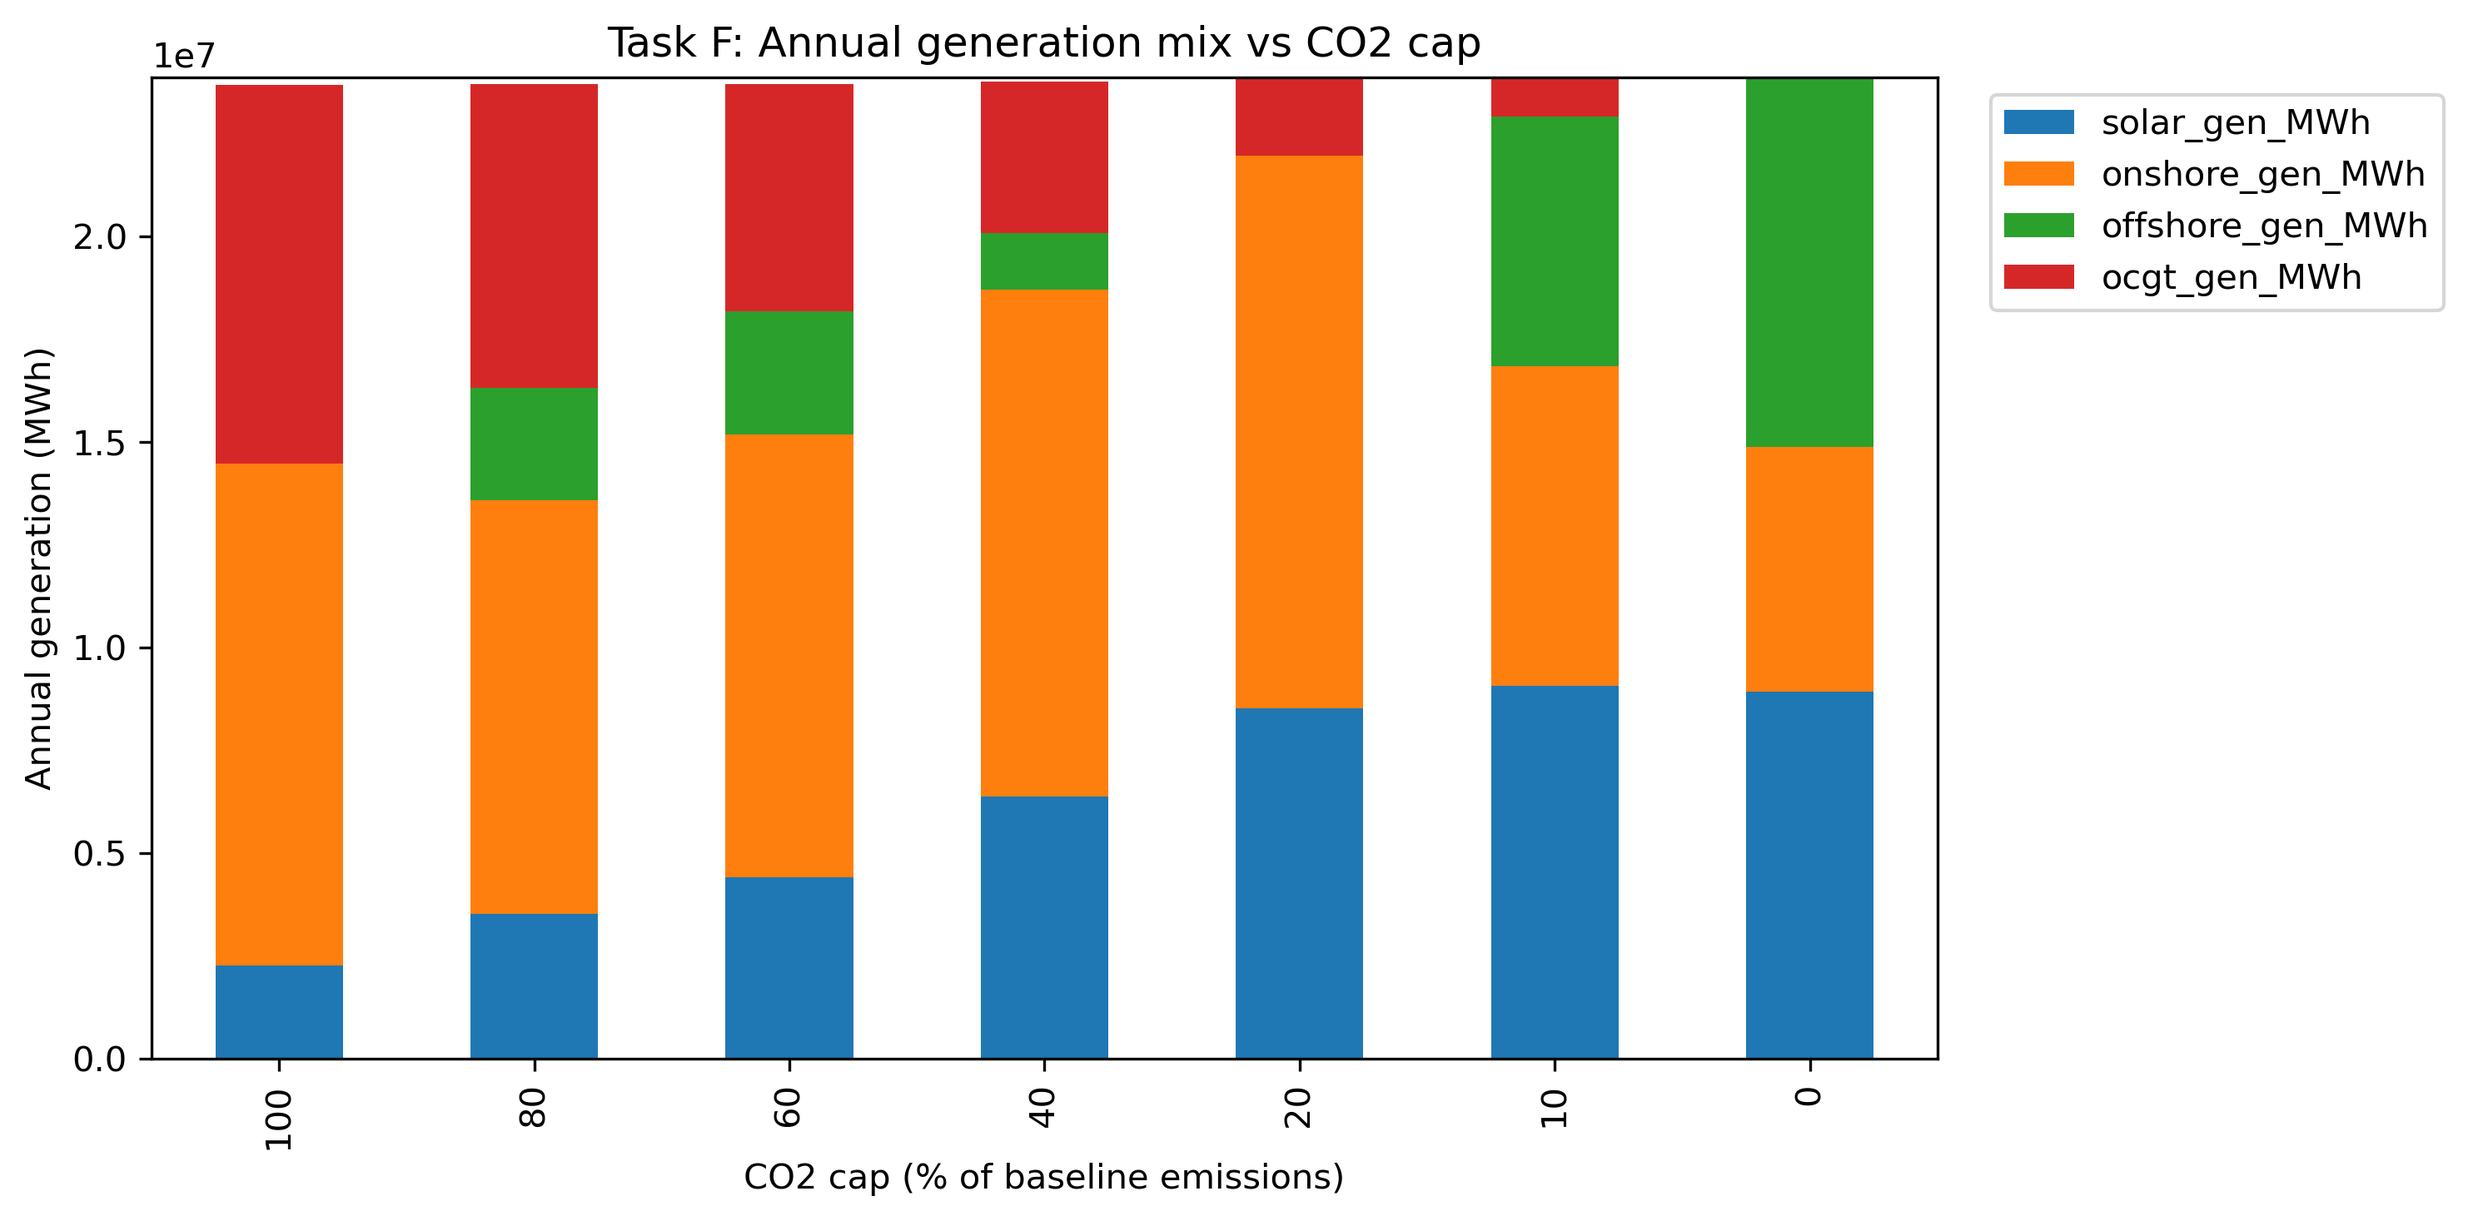
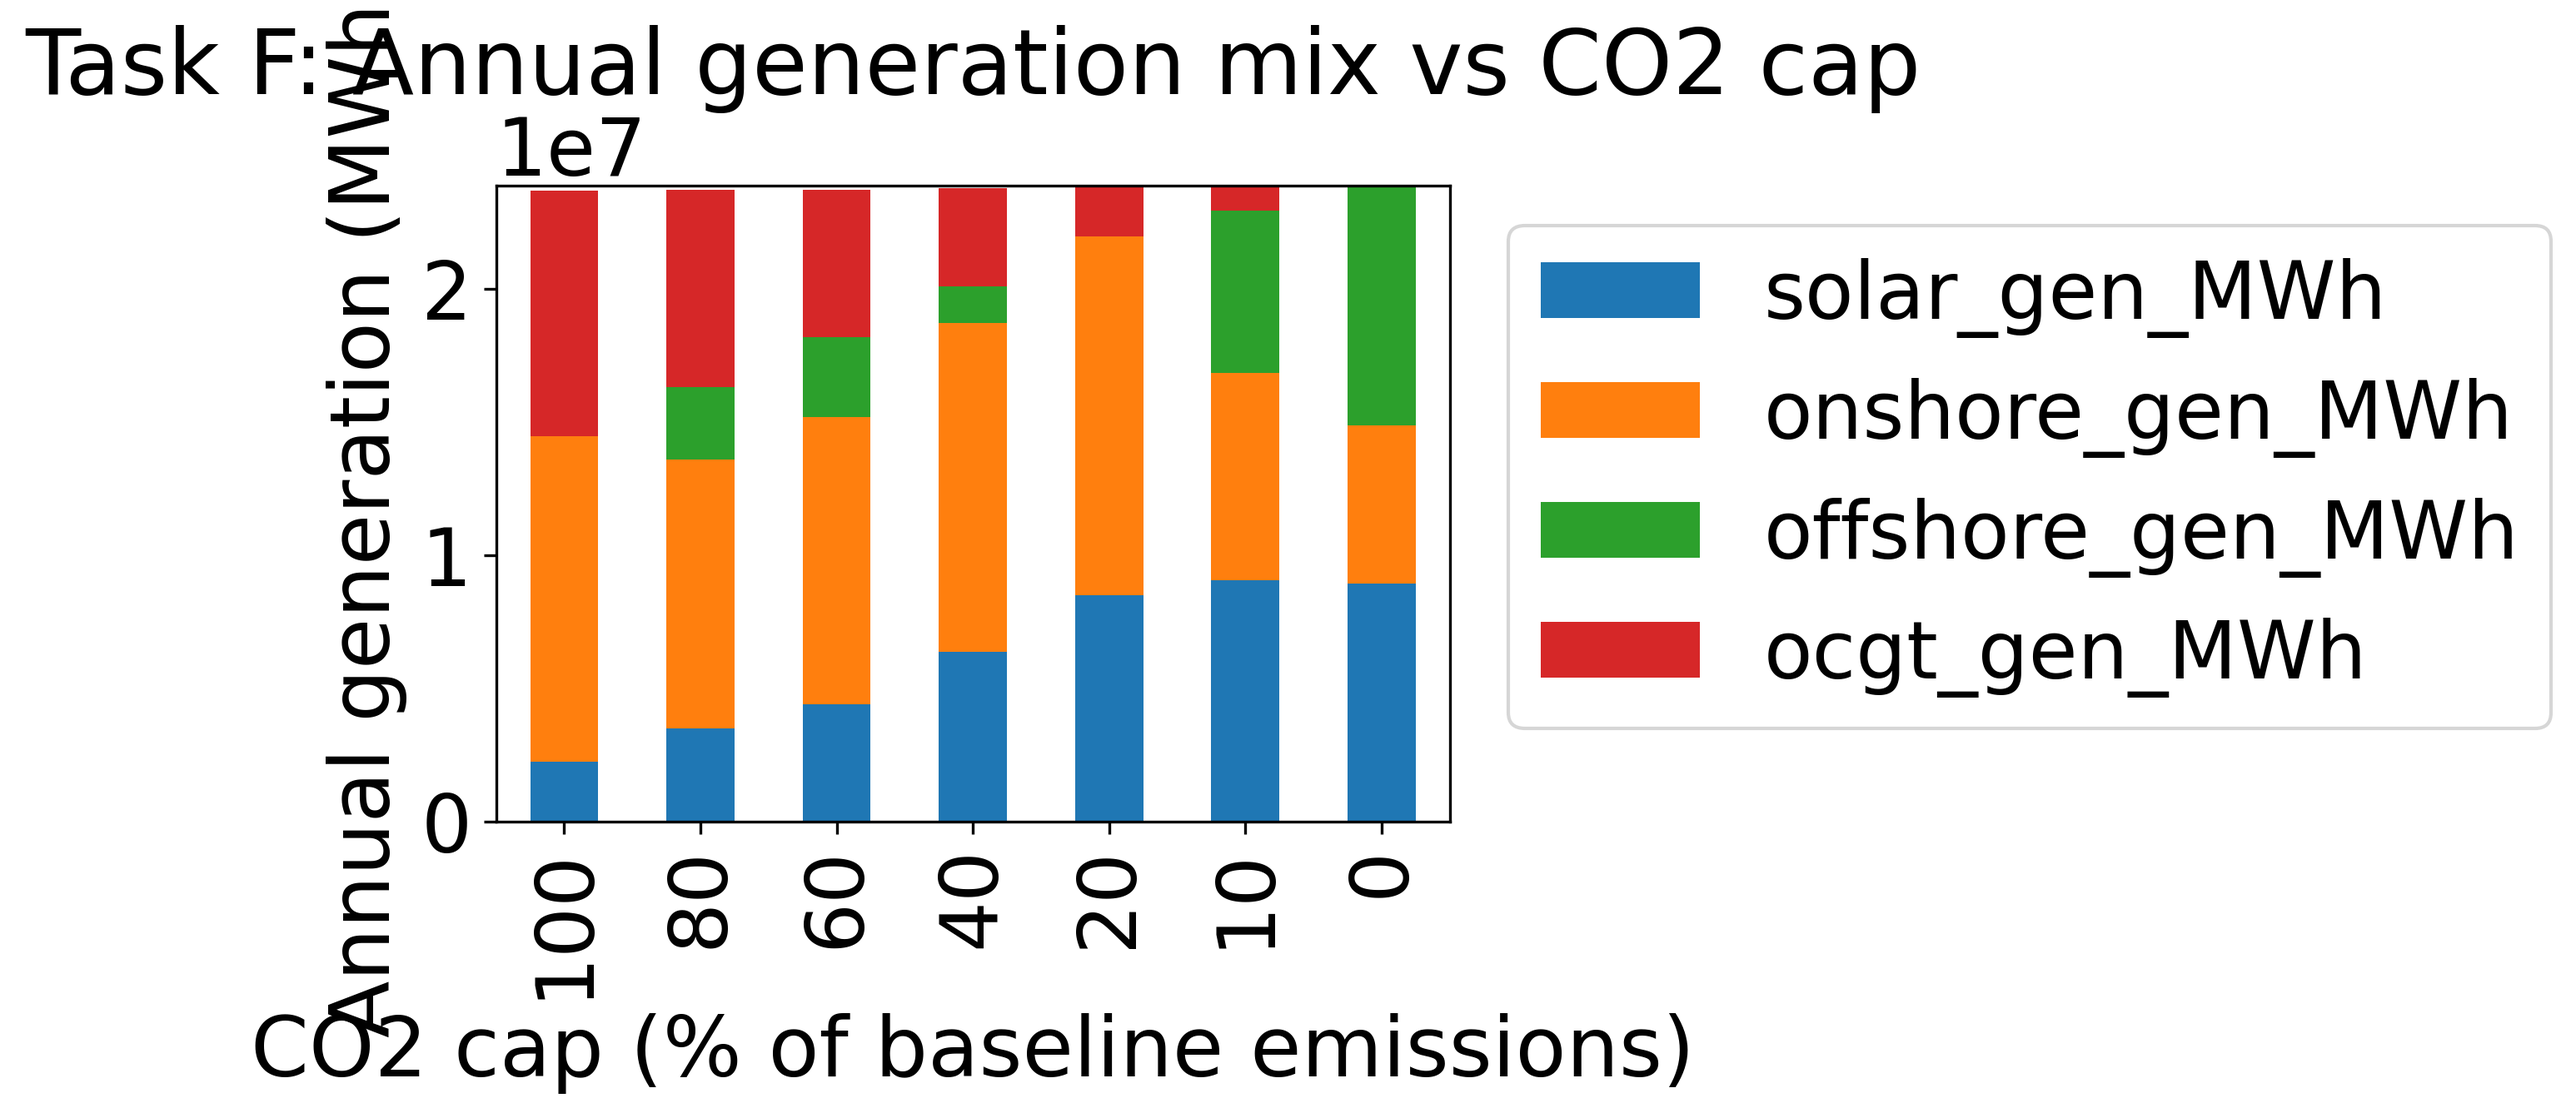
finalizing project

diff --git a/taskF.py b/taskF.py
@@ -9,6 +9,23 @@ from src.cost_loader import load_costs, get_cost
 from src.profiles import make_profile
 from src.network_builder import create_network
 
+
+# ============================================================
+# Plot style (global)
+# ============================================================
+
+PLOT_FONT_SIZE = 24  # <-- change ONLY this number
+
+plt.rcParams.update({
+    "font.size": PLOT_FONT_SIZE,           # base font size
+    "axes.titlesize": PLOT_FONT_SIZE + 2,  # title
+    "axes.labelsize": PLOT_FONT_SIZE,      # x/y labels
+    "xtick.labelsize": PLOT_FONT_SIZE - 1,
+    "ytick.labelsize": PLOT_FONT_SIZE - 1,
+    "legend.fontsize": PLOT_FONT_SIZE - 1,
+    "figure.titlesize": PLOT_FONT_SIZE + 2,
+})
+
 pd.options.future.infer_string = False
 
 # ============================================================

diff --git a/taskJ.py b/taskJ.py
@@ -325,7 +325,7 @@ def plot_generation_mix(network):
         .sort_values(ascending=False)
     )
 
-    fig, ax = plt.subplots(figsize=(8, 5))
+    fig, ax = plt.subplots(figsize=(8, 2.5))
     gen_mix.plot(kind="bar", ax=ax)
 
     ax.set_ylabel("Annual generation [MWh]")
@@ -512,7 +512,7 @@ def plot_bornholm_export_duration(network):
     flows = network.lines_t.p0[["Bornholm_DK2", "Bornholm_DE"]].copy()
     total_export = flows.sum(axis=1)
 
-    fig, ax = plt.subplots(figsize=(8, 5))
+    fig, ax = plt.subplots(figsize=(8, 2.5))
     total_export.sort_values(ascending=False).reset_index(drop=True).plot(ax=ax)
 
     ax.set_ylabel("Bornholm net export [MW]")
